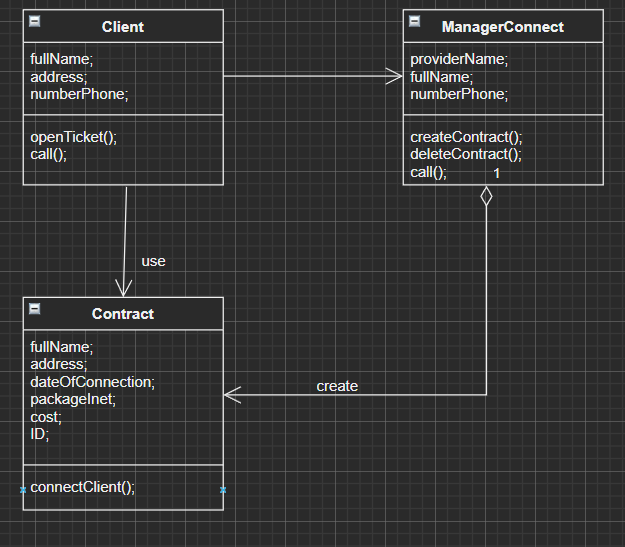
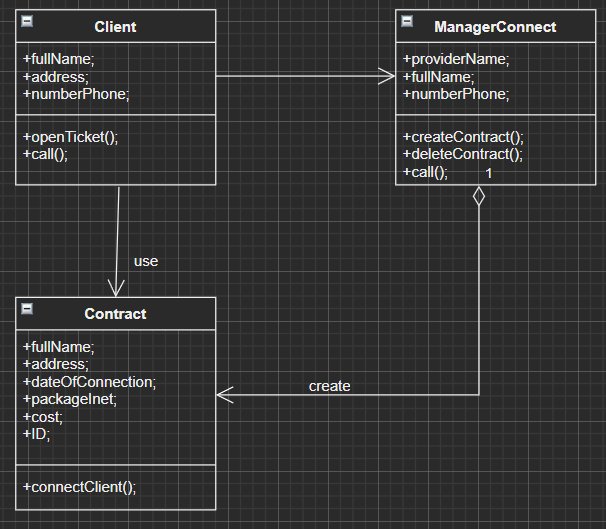
3 practice

diff --git a/src/ua/opu/oop/internet_topnet/ManagerConnect.java b/src/ua/opu/oop/internet_topnet/ManagerConnect.java
@@ -5,7 +5,7 @@ public class ManagerConnect {
     public String fullName;
     public int numberPhone;
 
-    void createContract(){};
-    void deleteContract(){};
-    void call(){};
+    public void createContract(){};
+    public void deleteContract(){};
+    public void call(){};
 }

diff --git a/src/ua/opu/oop/internet_topnet/Client.java b/src/ua/opu/oop/internet_topnet/Client.java
@@ -5,6 +5,6 @@ public class Client {
     public String address;
     public int numberPhone;
 
-    void OpenTicket(){};
-    void call(){};
+    public void OpenTicket(){};
+    public void call(){};
 }

diff --git a/src/ua/opu/oop/internet_topnet/Contract.java b/src/ua/opu/oop/internet_topnet/Contract.java
@@ -8,5 +8,5 @@ public class Contract {
     public int cost;
     public int ID;
 
-    void connectClient(){};
+    public void connectClient(){};
 }
